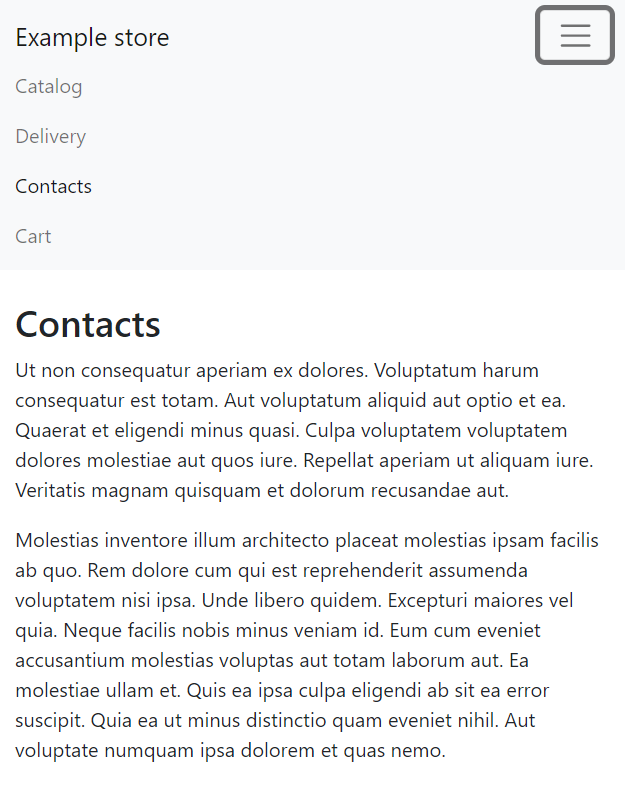
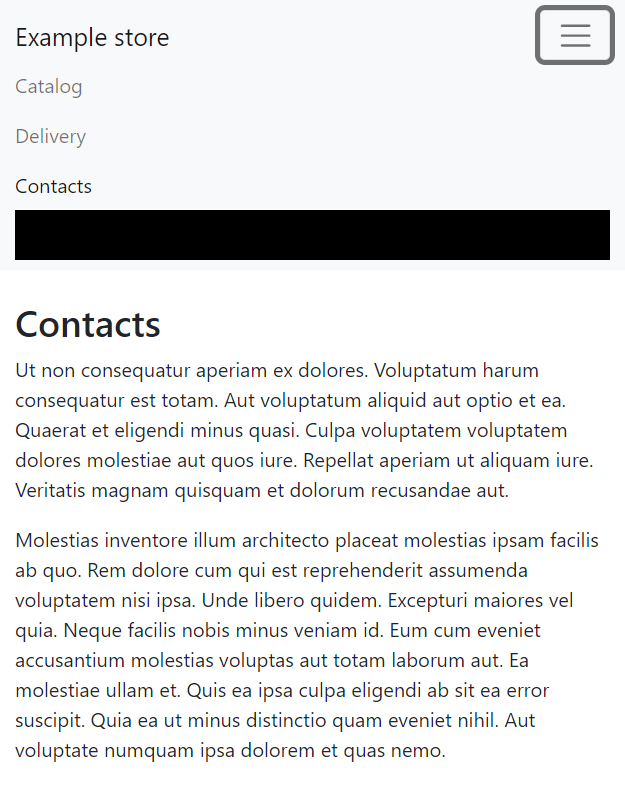
fix

Changed region(s): [[0.0, 0.2446, 1.0, 0.3363]]

diff --git a/test/hermione/example.hermione.js b/test/hermione/example.hermione.js
@@ -35,7 +35,11 @@ describe("static-screens", async () => {
         await(500);
         await this.browser.$('.container').scrollIntoView();
         await(500);
-        await this.browser.assertView('contacts-mini-click', '#root');
+        await this.browser.assertView('contacts-mini-click', '#root', {
+            ignoreElements: [
+                '.nav-link:last-child'
+            ]
+        });
     });
   
 });
@@ -60,17 +64,16 @@ describe('Корзина', async () => {
         let textAddItem = await this.browser.$('.text-success');
         const isEx = await textAddItem.isExisting()
         assert.ok(isEx, "Нет слов Item in cart befor adding")
+
+        await this.browser.url('/hw/store/Catalog');
+        let text = await this.browser.$('.ProductItem').$('.text-success');
+        await text.waitForExist();
+        assert.equal(await text.getText(), "Item in cart")
     })
     it('в шапке рядом со ссылкой на корзину должно отображаться количество не повторяющихся товаров в ней', async function(){
         let cartLink = await this.browser.$('.nav-link:last-child');
         text = await cartLink.getText();
         assert.equal(text, "Cart (1)");
-    })
-    it('Item in cart в Catalog', async function() {
-        await this.browser.url('/hw/store/Catalog');
-        let text = await this.browser.$('.ProductItem').$('.text-success');
-        await text.waitForExist();
-        assert.equal(await text.getText(), "Item in cart")
     })
     it('данные при добавлении совпадают с корзиной', async function() {
         const nameElem = await this.browser.$('.ProductItem-Name');
@@ -89,15 +92,13 @@ describe('Корзина', async () => {
         const count = await countElem.getText();
 
         assert.equal(count, "3");
-    })
-    it('при перезагрузке корзина не падает', async function() {
+
         await this.browser.refresh();
         await wait(500);
         const countElem1 = await this.browser.$('.Cart-Count');
         const count1 = await countElem1.getText();
         assert.equal(count1, "3");
-    })
-    it('удаление корзины', async function() {
+
         const buttonElem = await this.browser.$('.Cart-Clear');
         await buttonElem.waitForClickable();
         await buttonElem.click();

diff --git a/hermione-html-report/data.js b/hermione-html-report/data.js
@@ -1,2 +1,2 @@
-var data = {"skips":[],"config":{"defaultView":"all","baseHost":"","scaleImages":false,"errorPatterns":[],"metaInfoBaseUrls":{},"customScripts":[],"yandexMetrika":{"counterNumber":null},"pluginsEnabled":false,"plugins":[]},"apiValues":{"extraItems":{},"metaInfoExtenders":{},"imagesSaver":{"saveImg":"async (srcCurrPath, {destPath, reportDir}) => {\n        await utils.copyFileAsync(srcCurrPath, destPath, reportDir);\n\n        return destPath;\n    }"},"reportsSaver":null},"date":"Sun Oct 24 2021 22:56:27 GMT+0300 (Москва, стандартное время)"};
+var data = {"skips":[],"config":{"defaultView":"all","baseHost":"","scaleImages":false,"errorPatterns":[],"metaInfoBaseUrls":{},"customScripts":[],"yandexMetrika":{"counterNumber":null},"pluginsEnabled":false,"plugins":[]},"apiValues":{"extraItems":{},"metaInfoExtenders":{},"imagesSaver":{"saveImg":"async (srcCurrPath, {destPath, reportDir}) => {\n        await utils.copyFileAsync(srcCurrPath, destPath, reportDir);\n\n        return destPath;\n    }"},"reportsSaver":null},"date":"Mon Oct 25 2021 09:40:28 GMT+0300 (Москва, стандартное время)"};
 try { module.exports = data; } catch(e) {}
